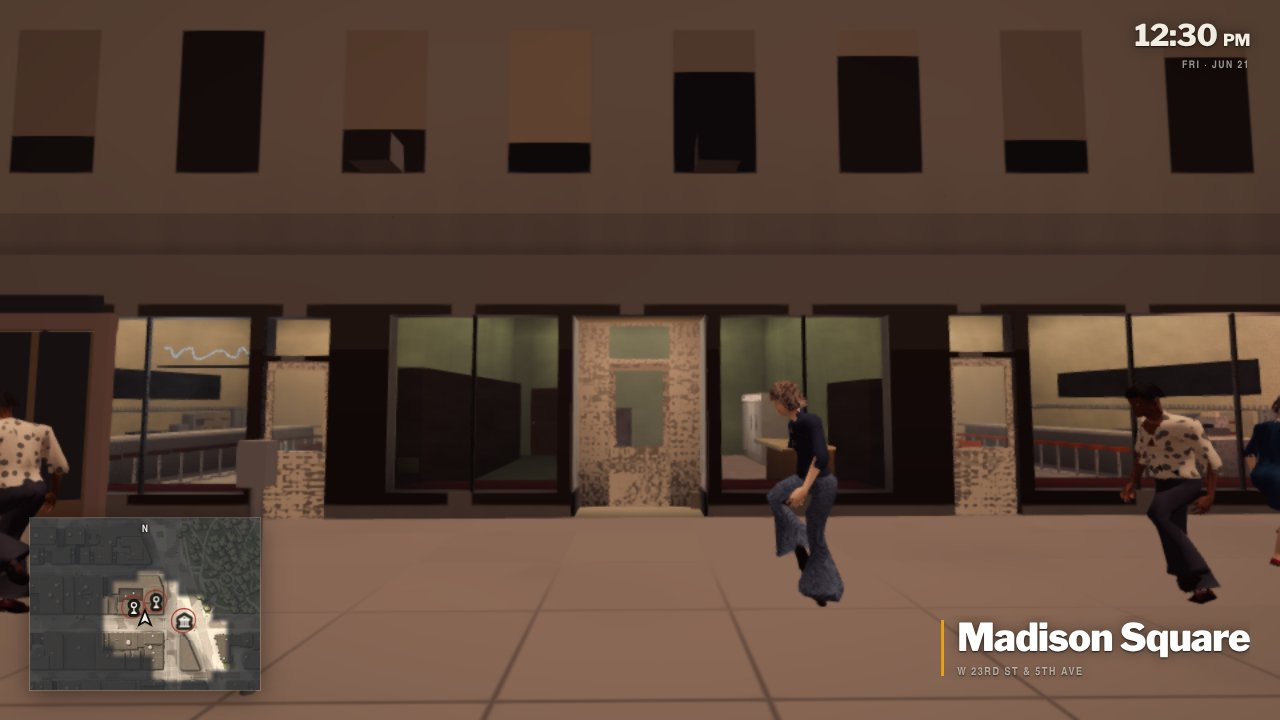
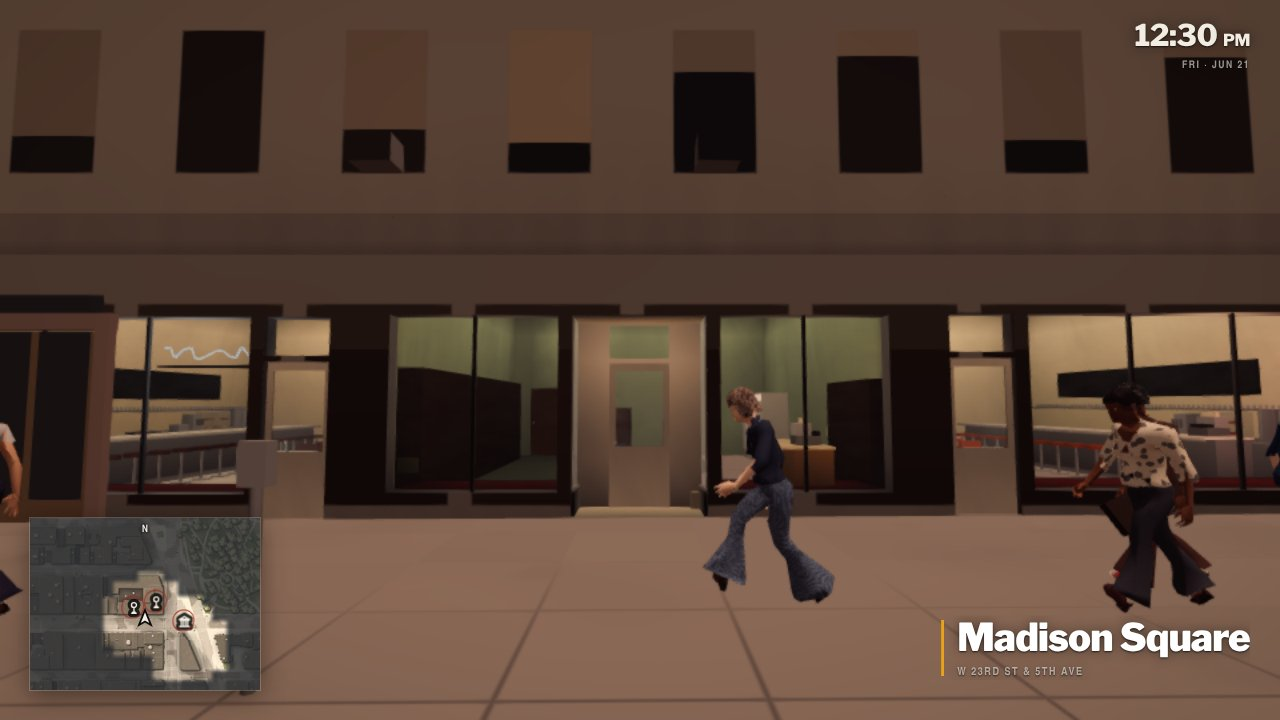
Board: storefront speckle fixed (interiors 52b2fdd, rounded pattern id); re-shot
Claude-Session: https://claude.ai/code/session_01H4ZSJ5agLRKP5qS2okvyAK

diff --git a/docs/WIRING_BOARD.md b/docs/WIRING_BOARD.md
@@ -101,3 +101,14 @@ Shots are in `shots/wiring/`.
 - **Doorway collisions are open before an interior is live.** Interiors stream within 30 m, so in
   practice the interior is always there first. A plug collider for not-yet-live units is queued as
   a safety net.
+
+**Storefront speckle: FIXED** (oversight review of 9dea15f). `storefronts_cut_noon.jpg` is re-shot.
+- **Root cause (interiors 52b2fdd):** the uber material compared the interpolated per-vertex pattern id
+  with `equal()`, so some pixels fell through to another pattern. The fix rounds the id first.
+- **Also fixed on the way:**
+  - the chunk door surround is skipped on enterable doors (7836d41);
+  - hidden plugs are collapsed to zero area (a82a26e);
+  - thin glass is a single pane (2752057);
+  - world position is wrapped before hashing (afa65de).
+- **Lesson** (same family as the earlier window flicker): never compare or hash interpolated
+  attributes without rounding them first.
